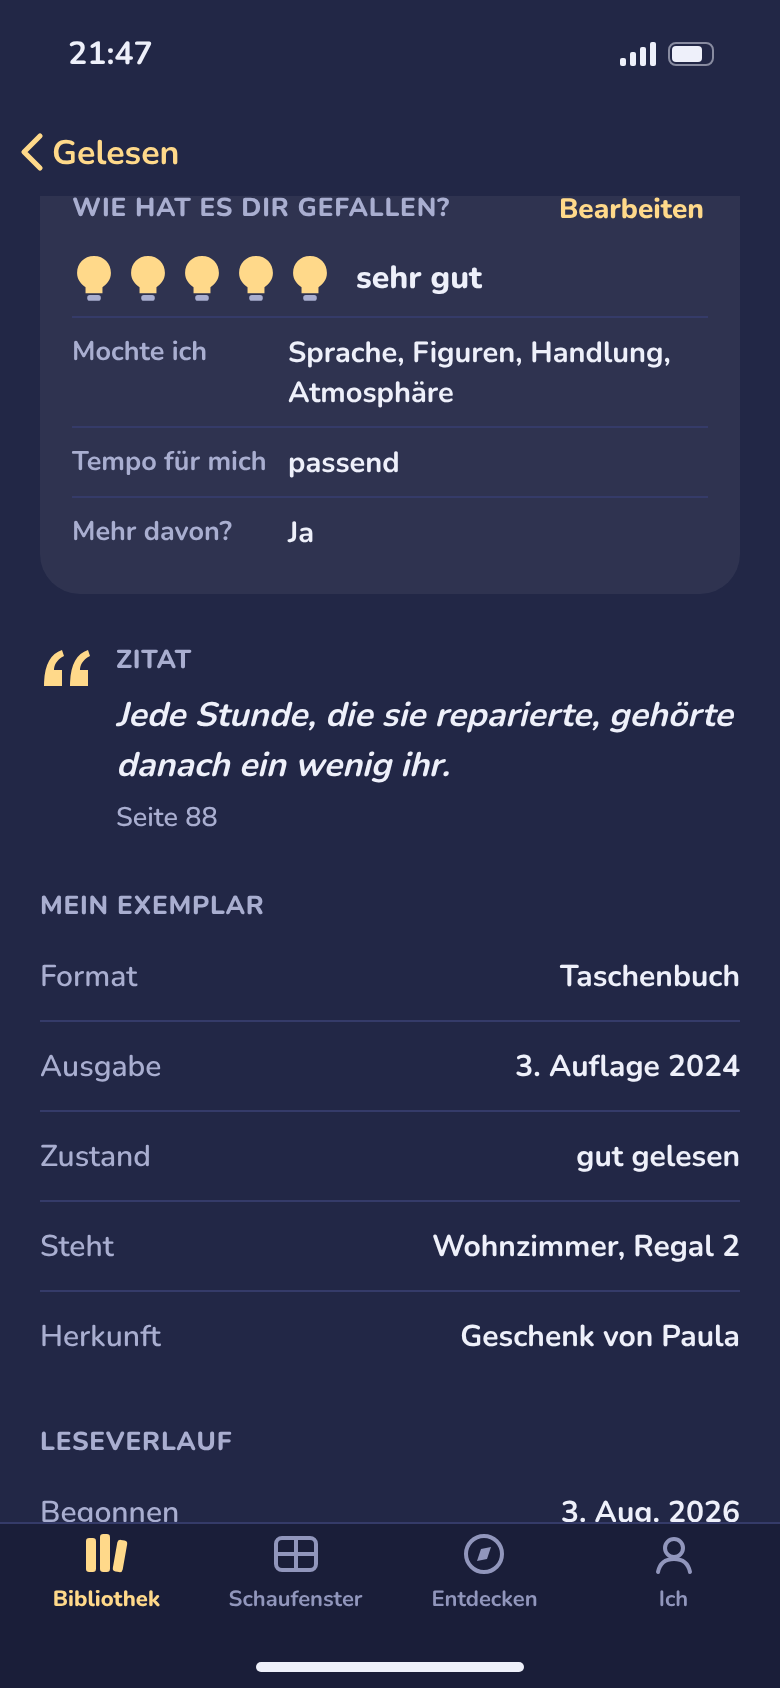
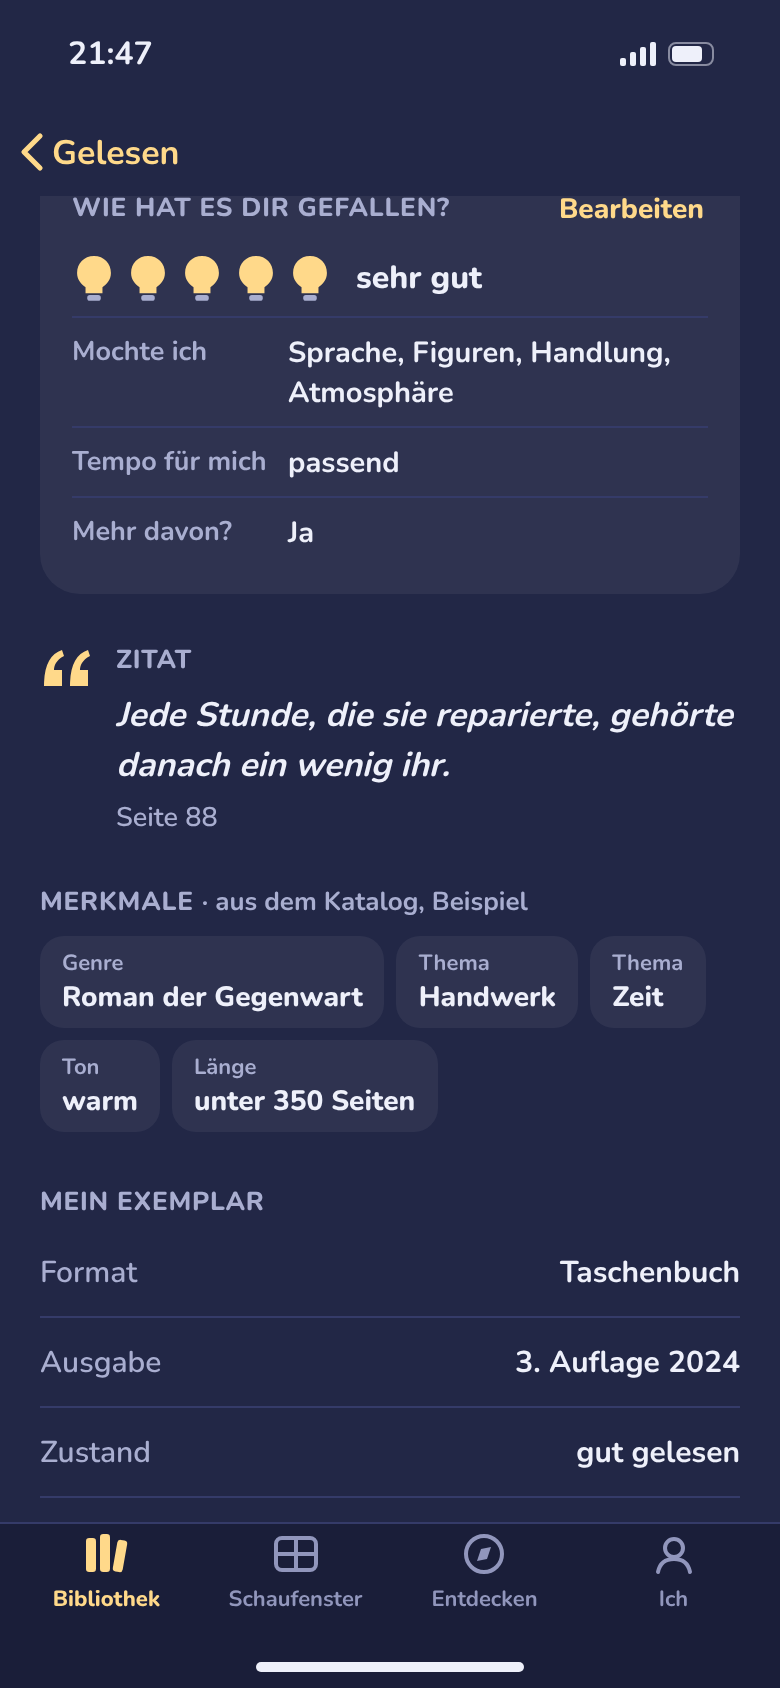
Prototyp: Ausschlüsse an konkrete Merkmale gebunden, strukturiert gespeichert
Claude-Session: https://claude.ai/code/session_01XFBEjrJEUrXQYaFeZnVBdK

Changed region(s): [[0.0308, 0.5237, 0.7077, 0.9242], [0.5538, 0.6777, 0.9538, 0.9242], [0.7077, 0.5545, 0.9538, 0.6469]]

diff --git a/prototyp/designer/3-charakter/LichtAn.dc.html b/prototyp/designer/3-charakter/LichtAn.dc.html
@@ -314,6 +314,17 @@ input[type=search]::-webkit-search-cancel-button{display:none}
 <dl style="margin: 6px 0 0 0">
 <sc-for list="{{book.rateLines}}" as="r" hint-placeholder-count="3"><div style="display: flex; gap: 10px; padding: 7px 0; border-top: 1px solid var(--line)"><dt style="flex-shrink: 0; width: 98px; font-size: 13.5px; font-weight: 700; color: var(--mute)">{{r.k}}</dt><dd style="margin: 0; font-size: 14.5px; line-height: 20px; font-weight: 700">{{r.v}}</dd></div></sc-for>
 </dl>
+<sc-if value="{{book.hasAvoid}}" hint-placeholder-val="{{ false }}">
+<h3 style="margin: 10px 0 2px 0; font-size: 12.5px; font-weight: 800; color: var(--mute); letter-spacing: .03em">KÜNFTIG WENIGER, FÜR ALLE EMPFEHLUNGEN</h3>
+<ul style="margin: 0; padding: 0; list-style: none">
+<sc-for list="{{book.avoidLines}}" as="a" hint-placeholder-count="2">
+<li style="display: flex; align-items: center; gap: 8px; min-height: 48px; border-top: 1px solid var(--line)">
+<span style="flex: 1; font-size: 14.5px; line-height: 20px; font-weight: 700">{{a.text}}</span>
+<button type="button" aria-label="{{a.aria}}" onClick="{{a.remove}}" style="flex-shrink: 0; min-height: 44px; padding: 0 4px; border: none; background: none; cursor: pointer; font-size: 13.5px; font-weight: 800; color: var(--acc)">entfernen</button>
+</li>
+</sc-for>
+</ul>
+</sc-if>
 </section>
 </sc-if>
 
@@ -324,6 +335,15 @@ input[type=search]::-webkit-search-cancel-button{display:none}
 <h2 style="margin: 0; font-size: 13px; font-weight: 800; color: var(--mute); letter-spacing: .03em">ZITAT</h2>
 <p style="margin: 6px 0 0 0; font-size: 17px; line-height: 25px; font-weight: 700; font-style: italic">{{book.quote}}</p>
 <p style="margin: 4px 0 0 0; font-size: 13.5px; font-weight: 600; color: var(--mute)">{{book.quotePage}}</p>
+</div>
+</section>
+</sc-if>
+
+<sc-if value="{{book.hasFeatures}}" hint-placeholder-val="{{ true }}">
+<section style="margin-top: 24px">
+<h2 style="margin: 0 0 8px 0; font-size: 13px; font-weight: 800; color: var(--mute); letter-spacing: .03em">MERKMALE <span style="font-weight: 700; letter-spacing: 0">· aus dem Katalog, Beispiel</span></h2>
+<div style="display: flex; flex-wrap: wrap; gap: 6px">
+<sc-for list="{{book.features}}" as="f" hint-placeholder-count="5"><span style="display: inline-flex; flex-direction: column; border-radius: 12px; background: var(--barBg); padding: 6px 11px"><span style="font-size: 11px; font-weight: 700; color: var(--mute)">{{f.dim}}</span><span style="font-size: 14px; font-weight: 800">{{f.label}}</span></span></sc-for>
 </div>
 </section>
 </sc-if>
@@ -570,11 +590,11 @@ input[type=search]::-webkit-search-cancel-button{display:none}
 
 <sc-if value="{{rv.avoidHighlight}}" hint-placeholder-val="{{ false }}">
 <h3 style="margin: 16px 4px 4px 4px; font-size: 13px; font-weight: 800; color: var(--mute); letter-spacing: .03em">KÜNFTIG WENIGER DAVON?</h3>
-<p style="margin: 0 4px 8px 4px; font-size: 12.5px; line-height: 17px; font-weight: 600; color: var(--mute)"><b style="color: var(--ink)">Seltener</b> kommt weniger oft vor. <b style="color: var(--ink)">Nicht empfehlen</b> kommt gar nicht mehr vor.</p>
+<p style="margin: 0 4px 8px 4px; font-size: 12.5px; line-height: 17px; font-weight: 600; color: var(--mute)">Wähle das Merkmal, das du meinst. <b style="color: var(--ink)">Seltener</b> kommt weniger oft vor. <b style="color: var(--ink)">Nicht empfehlen</b> kommt gar nicht mehr vor.</p>
 <div role="list">
 <sc-for list="{{rv.avoid}}" as="a" hint-placeholder-count="4">
-<div role="listitem" style="display: flex; align-items: center; gap: 6px; min-height: 50px; border-top: 1px solid var(--line)">
-<span style="flex: 1; font-size: 15px; font-weight: 800; padding-left: 4px">{{a.label}}</span>
+<div role="listitem" style="display: flex; align-items: center; gap: 6px; min-height: 52px; border-top: 1px solid var(--line)">
+<span style="flex: 1; min-width: 0; display: flex; flex-direction: column; padding-left: 4px"><span style="font-size: 11.5px; font-weight: 800; color: var(--mute)">{{a.dim}}</span><span style="font-size: 15px; line-height: 19px; font-weight: 800">{{a.label}}</span></span>
 <button type="button" aria-pressed="{{a.lessPressed}}" aria-label="{{a.lessAria}}" onClick="{{a.less}}" style="{{a.lessStyle}}">seltener</button>
 <button type="button" aria-pressed="{{a.neverPressed}}" aria-label="{{a.neverAria}}" onClick="{{a.never}}" style="{{a.neverStyle}}">nicht empfehlen</button>
 </div>
@@ -597,11 +617,11 @@ input[type=search]::-webkit-search-cancel-button{display:none}
 </sc-for>
 <sc-if value="{{rv.avoidInMore}}" hint-placeholder-val="{{ false }}">
 <h4 style="margin: 14px 4px 6px 4px; font-size: 13px; font-weight: 800; color: var(--mute)">Künftig weniger davon?</h4>
-<p style="margin: 0 4px 8px 4px; font-size: 12.5px; line-height: 17px; font-weight: 600; color: var(--mute)"><b style="color: var(--ink)">Seltener</b> kommt weniger oft vor. <b style="color: var(--ink)">Nicht empfehlen</b> kommt gar nicht mehr vor.</p>
+<p style="margin: 0 4px 8px 4px; font-size: 12.5px; line-height: 17px; font-weight: 600; color: var(--mute)">Wähle das Merkmal, das du meinst. <b style="color: var(--ink)">Seltener</b> kommt weniger oft vor. <b style="color: var(--ink)">Nicht empfehlen</b> kommt gar nicht mehr vor.</p>
 <div role="list">
 <sc-for list="{{rv.avoid}}" as="a" hint-placeholder-count="4">
-<div role="listitem" style="display: flex; align-items: center; gap: 6px; min-height: 50px; border-top: 1px solid var(--line)">
-<span style="flex: 1; font-size: 15px; font-weight: 800; padding-left: 4px">{{a.label}}</span>
+<div role="listitem" style="display: flex; align-items: center; gap: 6px; min-height: 52px; border-top: 1px solid var(--line)">
+<span style="flex: 1; min-width: 0; display: flex; flex-direction: column; padding-left: 4px"><span style="font-size: 11.5px; font-weight: 800; color: var(--mute)">{{a.dim}}</span><span style="font-size: 15px; line-height: 19px; font-weight: 800">{{a.label}}</span></span>
 <button type="button" aria-pressed="{{a.lessPressed}}" aria-label="{{a.lessAria}}" onClick="{{a.less}}" style="{{a.lessStyle}}">seltener</button>
 <button type="button" aria-pressed="{{a.neverPressed}}" aria-label="{{a.neverAria}}" onClick="{{a.never}}" style="{{a.neverStyle}}">nicht empfehlen</button>
 </div>
@@ -681,8 +701,30 @@ var ASPECTS_SACH = ['Verständlichkeit', 'Tiefe', 'Thema'];
 var MORE_GROUPS = [
   ['tempoMe', 'Tempo für mich', ['zu langsam', 'passend', 'zu schnell'], false]
 ];
-var AVOID_FEATURES = ['dieses Genre', 'dieses Thema', 'solche Länge', 'diesen Ton'];
-function blankRating() { return { stars: 0, asp: {}, reasons: [], text: '', tempoMe: '', again: '', avoid: {} }; }
+var FEATURES = {
+  salz: { genre: 'Roman der Gegenwart', themes: ['Familie', 'Meer', 'Heimat'], tone: 'melancholisch', pages: 384 },
+  gezeiten: { genre: 'Roman der Gegenwart', themes: ['Meer', 'Verlust'], tone: 'ruhig', pages: 296 },
+  stille: { genre: 'Sachbuch', themes: ['Stille', 'Achtsamkeit'], tone: 'nachdenklich', pages: 220 },
+  moor: { genre: 'Krimi', themes: ['Schuld', 'Dorfleben'], tone: 'düster', pages: 340, content: 'detaillierte Gewaltdarstellung' },
+  tromso: { genre: 'Reiseerzählung', themes: ['Norden', 'Winter'], tone: 'heiter', pages: 412 },
+  nacht: { genre: 'Roman der Gegenwart', themes: ['Reise', 'Erinnerung'], tone: 'melancholisch', pages: 340 },
+  fluss: { genre: 'Historischer Roman', themes: ['Krieg', 'Familie', 'Flucht'], tone: 'schwer', pages: 520, content: 'detaillierte Gewaltdarstellung' },
+  uhr: { genre: 'Roman der Gegenwart', themes: ['Handwerk', 'Zeit'], tone: 'warm', pages: 288 },
+  see: { genre: 'Reiseerzählung', themes: ['Meer', 'Segeln'], tone: 'heiter', pages: 264 }
+};
+function slug(t) { return t.toLowerCase().replace(/ä/g, 'ae').replace(/ö/g, 'oe').replace(/ü/g, 'ue').replace(/ß/g, 'ss').replace(/[^a-z0-9]+/g, '_').replace(/^_|_$/g, ''); }
+function lengthRange(n) { return n > 500 ? ['over_500', 'über 500 Seiten'] : (n >= 350 ? ['350_500', '350 bis 500 Seiten'] : ['under_350', 'unter 350 Seiten']); }
+var DIM_LABEL = { genre: 'Genre', theme: 'Thema', tone: 'Ton', length: 'Länge', content: 'Inhalt' };
+function featureValues(id) {
+  var f = FEATURES[id]; if (!f) return [];
+  var out = [{ dimension: 'genre', value_id: slug(f.genre), label: f.genre }];
+  f.themes.forEach(function (t) { out.push({ dimension: 'theme', value_id: slug(t), label: t }); });
+  out.push({ dimension: 'tone', value_id: slug(f.tone), label: f.tone });
+  var lr = lengthRange(f.pages); out.push({ dimension: 'length', value_id: lr[0], label: lr[1] });
+  if (f.content) out.push({ dimension: 'content', value_id: slug(f.content), label: f.content });
+  return out;
+}
+function blankRating() { return { stars: 0, asp: {}, reasons: [], text: '', tempoMe: '', again: '', avoid: [] }; }
 var COUNTS = { gelesen: 148, ungelesen: 61, wunsch: 23, abgebrochen: 6, regale: 5, verliehen: 2 };
 var VOLS = {
   gelesen: { name: 'Gelesen', sub: 'Zu Ende gelesen, mit deinen eigenen Worten.', search: 'In 148 gelesenen Büchern suchen' },
@@ -756,8 +798,8 @@ class Component extends DCLogic {
       dropped: [{ id: 'fluss', when: 'Mai 2026' }],
       finished: [], rate: null, rd: blankRating(), moreOpen: false,
       ratings: {
-        uhr: { stars: 5, asp: { Sprache: 'like', Figuren: 'like', Handlung: 'like', Atmosphäre: 'like' }, reasons: [], text: '', tempoMe: 'passend', again: 'Ja', avoid: {} },
-        fluss: { stars: 2, asp: {}, reasons: ['Tempo', 'Zu lang'], text: 'Schöne Sätze, aber nach 80 Seiten ist noch nichts passiert.', tempoMe: 'zu langsam', again: 'weiß nicht', avoid: {} }
+        uhr: { stars: 5, asp: { Sprache: 'like', Figuren: 'like', Handlung: 'like', Atmosphäre: 'like' }, reasons: [], text: '', tempoMe: 'passend', again: 'Ja', avoid: [] },
+        fluss: { stars: 2, asp: {}, reasons: ['Tempo', 'Zu lang'], text: 'Schöne Sätze, aber nach 80 Seiten ist noch nichts passiert.', tempoMe: 'zu langsam', again: 'weiß nicht', avoid: [] }
       },
       reasons: [], note: '', volNotice: '' };
   }
@@ -870,6 +912,15 @@ class Component extends DCLogic {
       hasReading: !!(b.reading || (rt && rt.text && b.vol === 'gelesen')), reading: (rt && rt.text && b.vol === 'gelesen') ? rt.text : (b.reading || ''), forWhom: b.reading && !(rt && rt.text) ? (b.forWhom || '') : (b.forWhom && rt && rt.text === b.reading ? b.forWhom : ''),
       inviteCard: !(b.reading || (rt && rt.text && b.vol === 'gelesen')) && b.vol !== 'abgebrochen', inviteText: b.vol === 'gelesen' ? 'Was ist dir von diesem Buch geblieben? Ein Satz reicht.' : 'Deine eigenen Worte kommen dazu, wenn du es gelesen hast. Eine Notiz für dich geht schon jetzt.',
       showRating: b.vol === 'gelesen' || b.vol === 'abgebrochen',
+      hasAvoid: !!(rt && rt.avoid && rt.avoid.length),
+      avoidLines: rt && rt.avoid ? rt.avoid.map(function (a) {
+        var text = (a.action === 'never' ? 'Nicht empfehlen: ' : 'Seltener: ') + DIM_LABEL[a.dimension] + ' ' + a.label;
+        return { text: text, aria: text + ', entfernen', remove: function () {
+          var r = Object.assign({}, s.ratings); var cur = Object.assign({}, r[b.id]); cur.avoid = cur.avoid.filter(function (x) { return x !== a; }); r[b.id] = cur;
+          self.setState({ ratings: r }); } };
+      }) : [],
+      hasFeatures: featureValues(b.id).length > 0,
+      features: featureValues(b.id).map(function (f) { return { dim: DIM_LABEL[f.dimension], label: f.label }; }),
       editLabel: rt && (rt.stars || rt.reasons.length || Object.keys(rt.asp).length) ? 'Bearbeiten' : 'Bewerten',
       stars: [1, 2, 3, 4, 5].map(function (i) { return { bulb: rt && i <= rt.stars ? 'fill: var(--bulb)' : 'fill: none; stroke: var(--line); stroke-width: 2' }; }),
       starsLabel: rt && rt.stars ? rt.stars + ' von 5, ' + STAR_WORDS[rt.stars] : 'Noch nicht bewertet',
@@ -883,10 +934,6 @@ class Component extends DCLogic {
         if (rt.reasons.length) out.push({ k: 'Woran es lag', v: rt.reasons.join(', ') });
         if (rt.tempoMe) out.push({ k: 'Tempo für mich', v: rt.tempoMe });
         if (rt.again) out.push({ k: 'Mehr davon?', v: rt.again });
-        var av = rt.avoid || {}, ls = [], nv = [];
-        Object.keys(av).forEach(function (f) { if (av[f] === 'less') ls.push(f); else if (av[f] === 'never') nv.push(f); });
-        if (ls.length) out.push({ k: 'Seltener', v: ls.join(', ') });
-        if (nv.length) out.push({ k: 'Nicht empfehlen', v: nv.join(', ') });
         if (b.vol === 'abgebrochen' && rt.text) out.push({ k: 'Eigene Worte', v: '„' + rt.text + '“' });
         return out;
       })(),
@@ -959,7 +1006,7 @@ class Component extends DCLogic {
       var tempoReason = isDrop && rd.reasons.indexOf('Tempo') >= 0;
       var highlight = isDrop || (rd.stars > 0 && rd.stars <= 2);
       var groupsVis = MORE_GROUPS.filter(function (g) { return !(g[0] === 'tempoMe' && tempoReason); });
-      var avoidCount = Object.keys(rd.avoid).length;
+      var avoidCount = rd.avoid.length;
       var filled = 0; groupsVis.forEach(function (g) { var v = rd[g[0]]; if (g[3] ? v.length : v) filled++; });
       if (!highlight) filled += avoidCount;
       var moreTotal = groupsVis.length + (highlight ? 0 : 1);
@@ -979,12 +1026,18 @@ class Component extends DCLogic {
           labelStyle: 'font-size: 11.5px; font-weight: 800; white-space: nowrap; color: ' + (rd.stars === i ? 'var(--acc)' : 'var(--mute)'),
           pick: function () { upd({ stars: rd.stars === i ? 0 : i }); } }; }),
         avoidHighlight: highlight, avoidInMore: !highlight,
-        avoid: AVOID_FEATURES.map(function (f) {
-          var v = rd.avoid[f] || '';
-          var set = function (val) { var m = Object.assign({}, rd.avoid); if (m[f] === val) delete m[f]; else m[f] = val; upd({ avoid: m }); };
-          return { label: f.charAt(0).toUpperCase() + f.slice(1), lessPressed: v === 'less' ? 'true' : 'false', neverPressed: v === 'never' ? 'true' : 'false',
-            lessAria: f + ': seltener', neverAria: f + ': nicht empfehlen', lessStyle: avoidBtn(v === 'less', false), neverStyle: avoidBtn(v === 'never', true),
-            less: function () { set('less'); }, never: function () { set('never'); } };
+        avoid: featureValues(R0.id).map(function (fv) {
+          var cur = rd.avoid.filter(function (x) { return x.dimension === fv.dimension && x.value_id === fv.value_id; })[0];
+          var v = cur ? cur.action : '';
+          var set = function (val) {
+            var rest = rd.avoid.filter(function (x) { return !(x.dimension === fv.dimension && x.value_id === fv.value_id); });
+            if (v !== val) rest.push({ action: val, dimension: fv.dimension, value_id: fv.value_id, label: fv.label, source_work_id: R0.id, scope: 'global', explicit: true });
+            upd({ avoid: rest });
+          };
+          var name = DIM_LABEL[fv.dimension] + ' ' + fv.label;
+          return { dim: DIM_LABEL[fv.dimension], label: fv.label, lessPressed: v === 'seltener' ? 'true' : 'false', neverPressed: v === 'never' ? 'true' : 'false',
+            lessAria: name + ': seltener', neverAria: name + ': nicht empfehlen', lessStyle: avoidBtn(v === 'seltener', false), neverStyle: avoidBtn(v === 'never', true),
+            less: function () { set('seltener'); }, never: function () { set('never'); } };
         }),
         aspects: (bk.sach ? ASPECTS_SACH : ASPECTS_ROMAN).map(function (a) {
           var v = rd.asp[a] || '';

diff --git a/prototyp/designer/3-charakter/KONZEPT.md b/prototyp/designer/3-charakter/KONZEPT.md
@@ -260,3 +260,9 @@ Grundlage: ENTSCHEIDUNGSVORLAGE-USP3.md, Abschnitte 2 und 8. Screens in `screens
     - 12–12c: „Tempo“ an, „zu langsam“, „Tempo“ ab. Die Angabe ist weg und taucht beim erneuten Anwählen nicht wieder auf.
     - 13–14: „nicht empfehlen“ gespeichert und auf der Buchseite gezeigt.
   - Die 10 Sekunden stammen aus internem Durchspielen; ob es für echte Leser schnell und verständlich ist, muss ein Test zeigen.
+- **Datenbindung der Ausschlüsse (CLUSTERUNG.md, Abschnitt 6), umgesetzt:**
+  - Jedes Beispielbuch zeigt auf der Buchseite „Merkmale · aus dem Katalog“: Genre, 1–3 Themen, Ton, Längenbereich (unter 350 / 350 bis 500 / über 500 Seiten) und, wo passend, einen Inhalt wie „detaillierte Gewaltdarstellung“.
+  - „Künftig weniger davon?“ listet genau diese Werte einzeln, je mit „seltener“ und „nicht empfehlen“. Es gibt keinen Sammelausschluss aller Themen.
+  - Gespeichert wird `{action: 'seltener'|'never', dimension, value_id, label, source_work_id, scope: 'global', explicit: true}`. Der Abbruchgrund „Thema“ erzeugt keinen Ausschluss.
+  - Auf der Buchseite stehen die Einträge unter „Künftig weniger, für alle Empfehlungen“, z. B. „Seltener: Thema Meer“, jeweils mit „entfernen“.
+  - Geprüft in screens5/10b–10f (wählen, speichern, sehen, entfernen) und 13–14 (Abbruch mit „Thema Verlust: seltener“ und „Ton ruhig: nicht empfehlen“).
